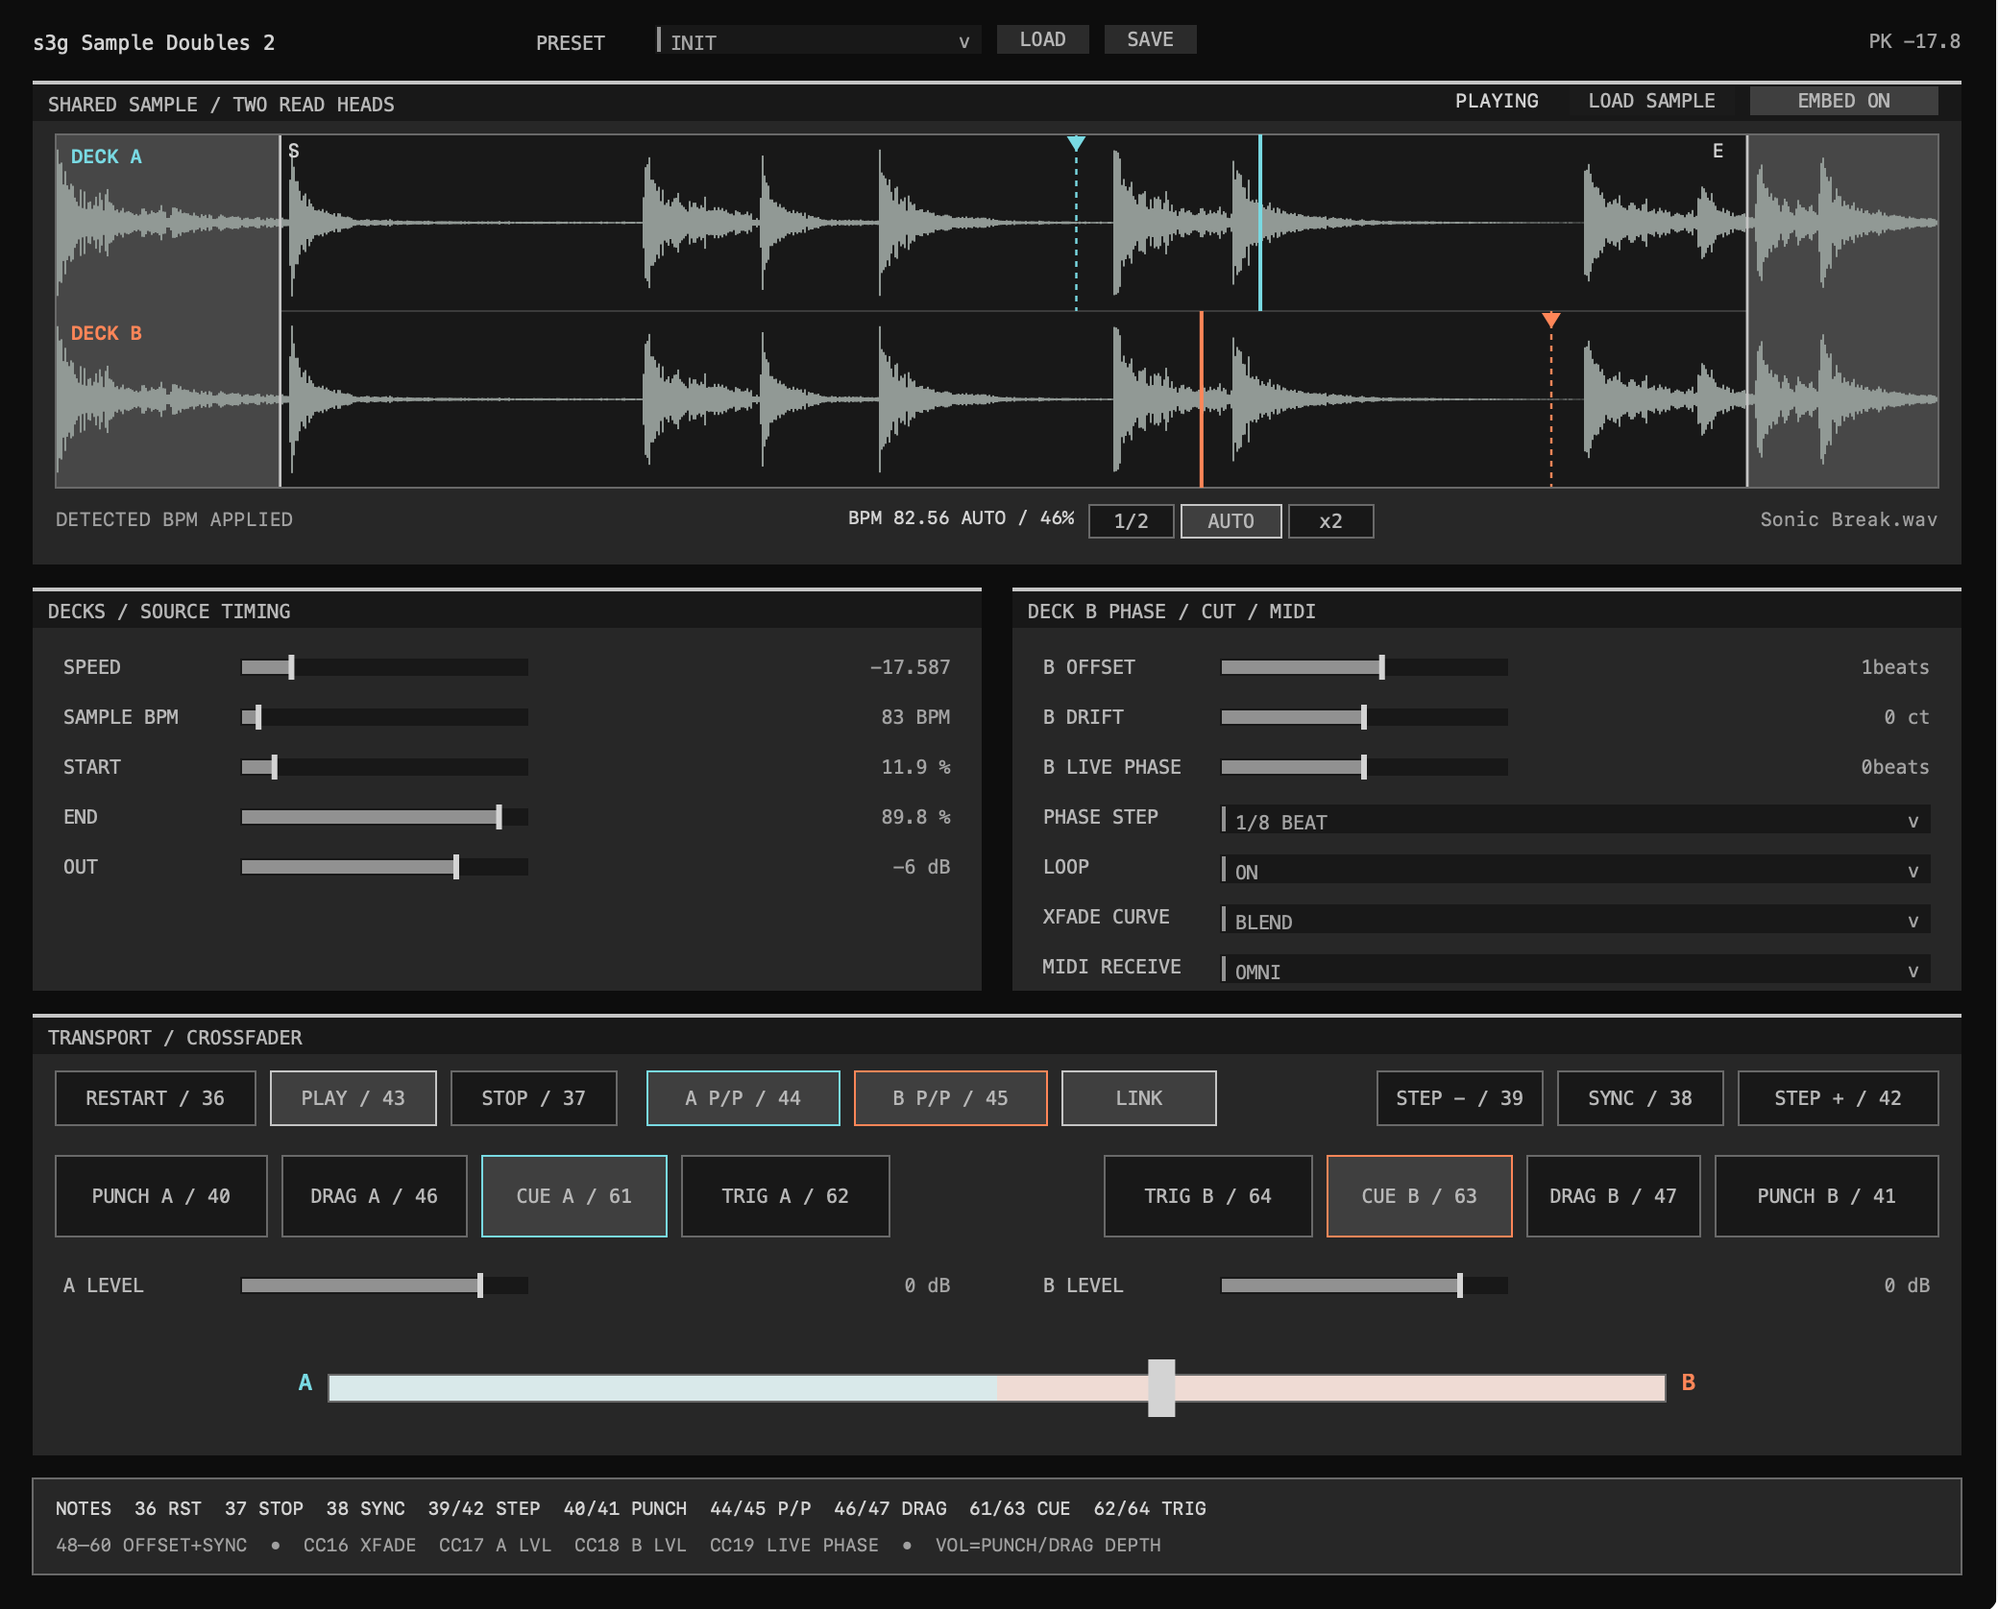
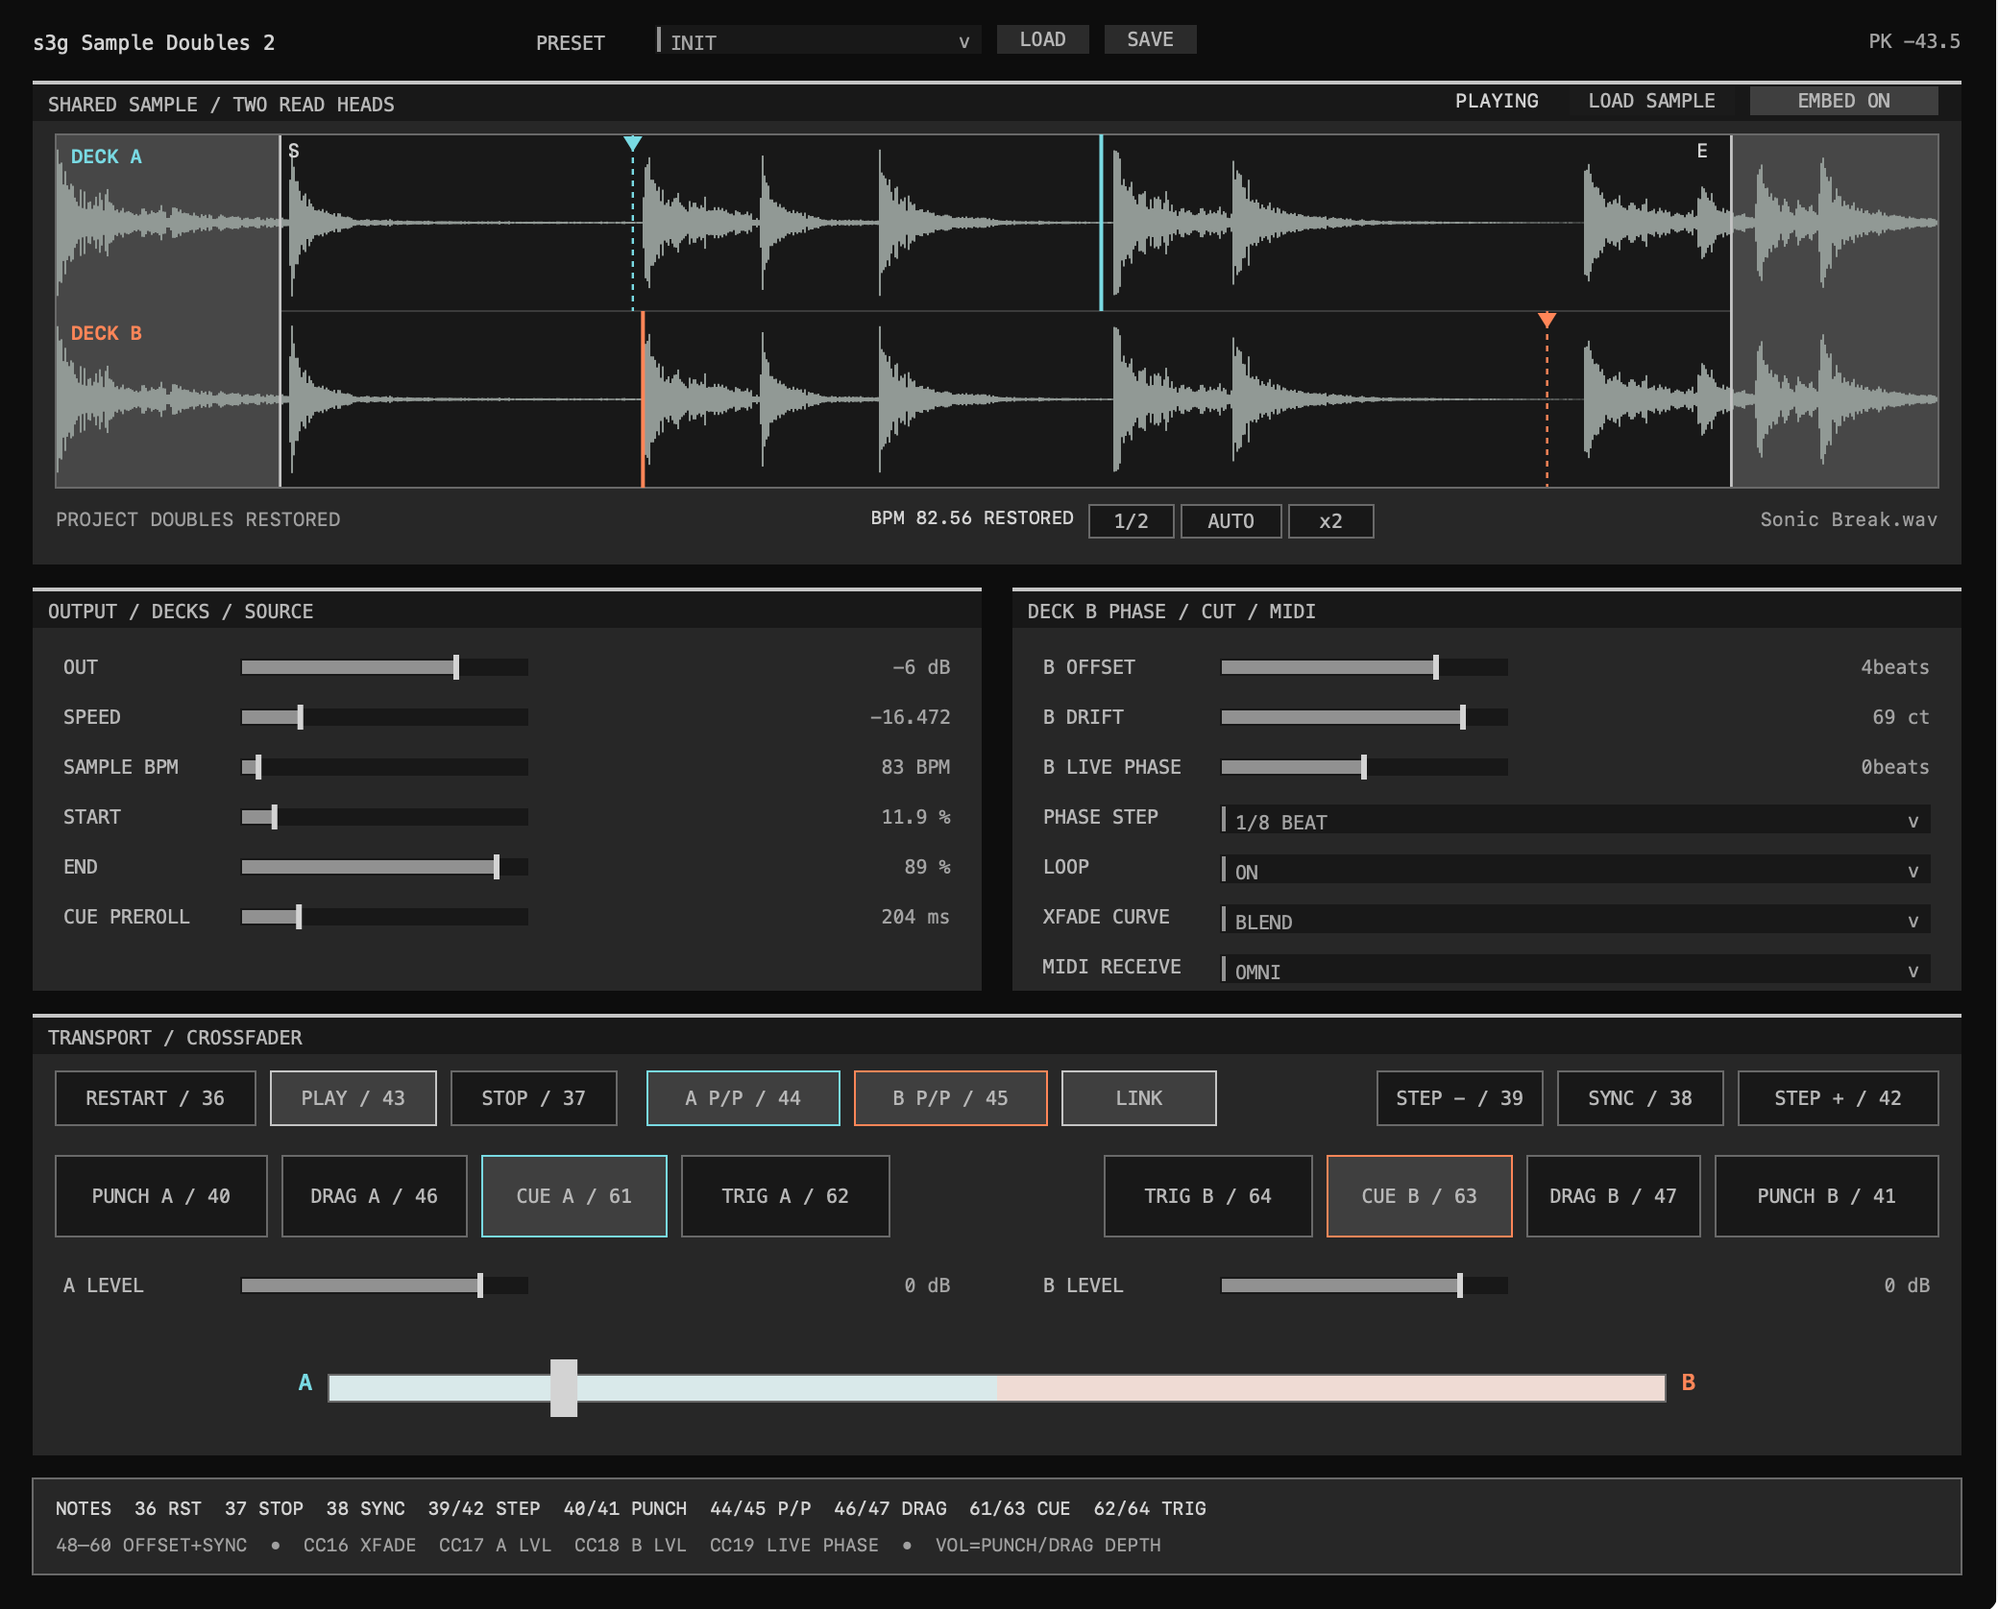
docs

diff --git a/docs/sample-instruments.html b/docs/sample-instruments.html
@@ -4,7 +4,7 @@
     <meta charset="utf-8">
     <meta name="viewport" content="width=device-width, initial-scale=1">
     <title>Sample Instruments - s3g-dsp</title>
-    <meta name="description" content="Sample Player, Sample Doubles, Sample Slicer, and related loaded-audio instrument documentation for s3g-dsp.">
+    <meta name="description" content="Sample Player, Sample Doubles, Sample Slicer, Effect CRCLTR, and related recorded-audio instrument documentation for s3g-dsp.">
     <link rel="stylesheet" href="styles.css">
   </head>
   <body>
@@ -27,14 +27,14 @@
       <main class="content" id="content">
         <h1>Sample Instruments</h1>
 
-        <p>The Sample family loads audio as an instrument source. <a href="sample-player.html">Sample Player</a> handles one-shots and loops, <a href="sample-doubles.html">Sample Doubles</a> puts two independently positioned copies of one stereo source behind a performance crossfader, and <a href="sample-slicer.html">Sample Slicer</a> turns as many as four breaks into mapped voices.</p>
+        <p>The Sample family uses loaded or captured audio as an instrument source. <a href="sample-player.html">Sample Player</a> handles one-shots and loops, <a href="sample-doubles.html">Sample Doubles</a> puts two independently positioned copies of one stereo source behind a performance crossfader, <a href="sample-slicer.html">Sample Slicer</a> turns as many as four breaks into mapped voices, and <a href="effect-crcltr.html">Effect CRCLTR</a> captures incoming stereo audio into two performance loop engines.</p>
 
         <h2 id="workflow">Workflow</h2>
 
         <ol>
-          <li>Choose an instrument and set its required output format and REAPER track channel count. Sample Player 16 and Sample Slicer 16 use fixed 16-channel outputs; their 2-channel forms use an ordinary stereo track.</li>
+          <li>Choose an instrument and set its required output format and REAPER track channel count. Sample Player 16 and Sample Slicer 16 use fixed 16-channel outputs; their 2-channel forms and Effect CRCLTR use an ordinary stereo track.</li>
           <li>For Processor Loop or Processor Multi Loop, route the eight output lanes to the main speakers, a downstream <a href="direct-panning.html">direct panner</a>, or <a href="monitoring-fold-down.html">Output Autogain Stereo/Quad</a> for fold-down monitoring. For Processor Ambi Grain, follow it with an <a href="ambisonic-decoders.html">ambisonic decoder</a>.</li>
-          <li>Load the source file or files and confirm that the expected channels appear.</li>
+          <li>Load the source file or files and confirm that the expected channels appear, or feed stereo audio into Effect CRCLTR and record its loop captures.</li>
           <li>Set the sample window, loop region, direction, pitch, and envelope, or derive and map slices in Sample Slicer.</li>
           <li>Audition the result through the established output path, then keep the source files with the project or in a stable media location.</li>
         </ol>
@@ -54,6 +54,7 @@
         <h2 id="loop-family">Loop Family</h2>
 
         <ul>
+          <li><a href="effect-crcltr.html">Effect CRCLTR</a>: two captured stereo loops with separate rates, manual or moving crossfade, and a live-source blend.</li>
           <li><a href="processor-loop.html">Processor Loop</a>: one loaded file distributed through an eight-channel loop instrument.</li>
           <li><a href="processor-multi-loop.html">Processor Multi Loop</a>: as many as four loaded files assigned across an eight-channel loop structure.</li>
         </ul>
@@ -85,6 +86,7 @@
           <a href="sample-player.html">Sample Player</a>
           <a href="sample-doubles.html">Sample Doubles</a>
           <a href="sample-slicer.html">Sample Slicer</a>
+          <a href="effect-crcltr.html">Effect CRCLTR</a>
           <a href="processor-loop.html">Processor Loop</a>
           <a href="processor-multi-loop.html">Processor Multi Loop</a>
           <a href="processor-ambi-grain.html">Processor Ambi Grain</a>

diff --git a/docs/effect-crcltr.html b/docs/effect-crcltr.html
@@ -101,26 +101,28 @@
         </ul>
 
         <nav class="page-nav" aria-label="Page navigation">
-          <a class="page-nav-link" href="distributed-output-processors.html">
+          <a class="page-nav-link" href="sample-slicer.html">
             <span>Previous</span>
-            Distributed-output Effects
+            Sample Slicer
           </a>
-          <a class="page-nav-link next" href="monitoring-fold-down.html">
+          <a class="page-nav-link next" href="processor-loop.html">
             <span>Next</span>
-            Monitoring / Fold-down
+            Processor Loop
           </a>
         </nav>
       </main>
 
       <aside class="toc" aria-label="Page navigation">
         <div class="toc-section">
-          <h2>Multichannel</h2>
-          <a href="multichannel.html">Overview</a>
-          <a href="multichannel-effects.html">Effects</a>
-          <a href="monitoring-fold-down.html">Monitoring / Fold-down</a>
-          <a href="direct-panning.html">Direct Panning</a>
-          <a href="bus-mixing-routing.html">Bus Mixing / Routing</a>
-          <a href="speaker-array-utilities.html">Speaker-array Utilities</a>
+          <h2>Sample</h2>
+          <a href="sample-instruments.html">Overview</a>
+          <a href="sample-player.html">Sample Player</a>
+          <a href="sample-doubles.html">Sample Doubles</a>
+          <a href="sample-slicer.html">Sample Slicer</a>
+          <a href="effect-crcltr.html">Effect CRCLTR</a>
+          <a href="processor-loop.html">Processor Loop</a>
+          <a href="processor-multi-loop.html">Processor Multi Loop</a>
+          <a href="processor-ambi-grain.html">Processor Ambi Grain</a>
         </div>
         <div class="toc-section">
           <h2>On This Page</h2>

diff --git a/docs/instruments.html b/docs/instruments.html
@@ -35,7 +35,7 @@
           <li><a href="s3g-tracker.html">s3g Tracker</a>: a host-synchronized polymetric MIDI tracker with sequencing effects, pattern and Song modes, timing warps, Live Code, step recording, and one channel-addressed REAPER MIDI output.</li>
           <li><a href="drums.html">Drums</a>: synthesized mono/stereo drum instruments, the companion Drum Overload effect, and an eight-lane stereo Drum Mixer 16.</li>
           <li><a href="generative-instruments.html">Generative Instruments</a>: internally synthesized and input-responsive feedback, modal, physical, byte, terrain, weather, liquid, pulsaret, stochastic, and logic systems, including Processor LF Synth, Processor Stack, and Processor Conduit.</li>
-          <li><a href="sample-instruments.html">Sample Instruments</a>: Sample Player for one-shots and loops, Sample Doubles for two-copy cutting and phasing, Sample Slicer for four-break slicing, and related instruments that use loaded files as persistent stereo, multichannel, or encoded source material.</li>
+          <li><a href="sample-instruments.html">Sample Instruments</a>: Sample Player for one-shots and loops, Sample Doubles for two-copy cutting and phasing, Sample Slicer for four-break slicing, Effect CRCLTR for captured dual-loop performance, and related instruments that use loaded or recorded audio as persistent stereo, multichannel, or encoded source material.</li>
           <li><a href="voice-instruments.html">Voice / Language Instruments</a>: voicebank synthesis, phrase mapping, and the companion voicebank-building workflow.</li>
         </ul>
 

diff --git a/docs/multichannel-effects.html b/docs/multichannel-effects.html
@@ -46,7 +46,6 @@
           <li><a href="macro-processors.html">Macro Effects</a>: compact delay, pitch, and shred interfaces with shared controls and lane relationship parameters.</li>
           <li><a href="spectral-buffer-processors.html">Spectral / Buffer Effects</a>: FFT-bin transformations and deliberately unstable buffer-window treatments.</li>
           <li><a href="distributed-output-processors.html">Distributed Output Effects</a>: stereo-input effects that distribute grains, delays, or taps across 16 ordinary output lanes.</li>
-          <li><a href="effect-crcltr.html">Effect CRCLTR</a>: a stereo dual looper with two capture lengths, manual or automated crossfades, and an equal-power source-to-loops blend.</li>
         </ul>
 
         <p>Start with topology effects when the relationship among input lanes should drive the result. Use a Macro effect for a smaller performance surface, Spectral / Buffer for transformations inside frequency or memory representations, and Distributed Output when a stereo source should emerge as a wide discrete-channel scene.</p>

diff --git a/docs/processor-loop.html b/docs/processor-loop.html
@@ -109,9 +109,9 @@
         </ul>
 
         <nav class="page-nav" aria-label="Page navigation">
-          <a class="page-nav-link" href="sample-slicer.html">
+          <a class="page-nav-link" href="effect-crcltr.html">
             <span>Previous</span>
-            Sample Slicer
+            Effect CRCLTR
           </a>
           <a class="page-nav-link next" href="processor-multi-loop.html">
             <span>Next</span>
@@ -127,6 +127,7 @@
           <a href="sample-player.html">Sample Player</a>
           <a href="sample-doubles.html">Sample Doubles</a>
           <a href="sample-slicer.html">Sample Slicer</a>
+          <a href="effect-crcltr.html">Effect CRCLTR</a>
           <a href="processor-loop.html">Processor Loop</a>
           <a href="processor-multi-loop.html">Processor Multi Loop</a>
           <a href="processor-ambi-grain.html">Processor Ambi Grain</a>

diff --git a/docs/sample-slicer.html b/docs/sample-slicer.html
@@ -150,7 +150,7 @@
 
         <nav class="page-nav" aria-label="Page navigation">
           <a class="page-nav-link" href="sample-doubles.html"><span>Previous</span>Sample Doubles</a>
-          <a class="page-nav-link next" href="processor-loop.html"><span>Next</span>Processor Loop</a>
+          <a class="page-nav-link next" href="effect-crcltr.html"><span>Next</span>Effect CRCLTR</a>
         </nav>
       </main>
 
@@ -161,6 +161,7 @@
           <a href="sample-player.html">Sample Player</a>
           <a href="sample-doubles.html">Sample Doubles</a>
           <a href="sample-slicer.html">Sample Slicer</a>
+          <a href="effect-crcltr.html">Effect CRCLTR</a>
           <a href="processor-loop.html">Processor Loop</a>
           <a href="processor-multi-loop.html">Processor Multi Loop</a>
           <a href="processor-ambi-grain.html">Processor Ambi Grain</a>

diff --git a/docs/monitoring-fold-down.html b/docs/monitoring-fold-down.html
@@ -56,9 +56,9 @@
         <p>The stereo and quad tools expose narrower output buses. In REAPER, inspect the plugin pin connector and enable <code>Zero out unmapped output channels</code> when unused track channels would otherwise pass around a fold-down plugin.</p>
 
         <nav class="page-nav" aria-label="Page navigation">
-          <a class="page-nav-link" href="effect-crcltr.html">
+          <a class="page-nav-link" href="distributed-output-processors.html">
             <span>Previous</span>
-            Effect CRCLTR
+            Distributed-output Effects
           </a>
           <a class="page-nav-link next" href="output-autogain-stereo.html">
             <span>Next</span>

diff --git a/docs/processor-multi-loop.html b/docs/processor-multi-loop.html
@@ -175,6 +175,7 @@
           <a href="sample-player.html">Sample Player</a>
           <a href="sample-doubles.html">Sample Doubles</a>
           <a href="sample-slicer.html">Sample Slicer</a>
+          <a href="effect-crcltr.html">Effect CRCLTR</a>
           <a href="processor-loop.html">Processor Loop</a>
           <a href="processor-multi-loop.html">Processor Multi Loop</a>
           <a href="processor-ambi-grain.html">Processor Ambi Grain</a>

diff --git a/docs/sample-doubles.html b/docs/sample-doubles.html
@@ -146,6 +146,7 @@
           <a href="sample-player.html">Sample Player</a>
           <a href="sample-doubles.html">Sample Doubles</a>
           <a href="sample-slicer.html">Sample Slicer</a>
+          <a href="effect-crcltr.html">Effect CRCLTR</a>
           <a href="processor-loop.html">Processor Loop</a>
           <a href="processor-multi-loop.html">Processor Multi Loop</a>
           <a href="processor-ambi-grain.html">Processor Ambi Grain</a>

diff --git a/docs/sample-player.html b/docs/sample-player.html
@@ -127,6 +127,7 @@
           <a href="sample-player.html">Sample Player</a>
           <a href="sample-doubles.html">Sample Doubles</a>
           <a href="sample-slicer.html">Sample Slicer</a>
+          <a href="effect-crcltr.html">Effect CRCLTR</a>
           <a href="processor-loop.html">Processor Loop</a>
           <a href="processor-multi-loop.html">Processor Multi Loop</a>
           <a href="processor-ambi-grain.html">Processor Ambi Grain</a>

diff --git a/docs/distributed-output-processors.html b/docs/distributed-output-processors.html
@@ -85,9 +85,9 @@
             <span>Previous</span>
             Spectral / Buffer Effects
           </a>
-          <a class="page-nav-link next" href="effect-crcltr.html">
+          <a class="page-nav-link next" href="monitoring-fold-down.html">
             <span>Next</span>
-            Effect CRCLTR
+            Monitoring / Fold-down
           </a>
         </nav>
       </main>

diff --git a/tests/encoder_family_gui_smoke.mm b/tests/encoder_family_gui_smoke.mm
@@ -3212,7 +3212,7 @@ int main(int argc, char** argv)
                             && analyzedBpm > 115.0 && analyzedBpm < 125.0;
                     }
                     if (ok) {
-                        const NSPoint manualBpm = NSMakePoint(276.0, 369.0);
+                        const NSPoint manualBpm = NSMakePoint(276.0, 395.0);
                         [document mouseDown:mouseEvent(
                             NSEventTypeLeftMouseDown, manualBpm)];
                         [document mouseUp:mouseEvent(
@@ -3522,11 +3522,11 @@ int main(int argc, char** argv)
                     CGFloat y;
                 };
                 const std::array<SliderDrag, 11u> sliderDrags {{
-                    { 126.0, 276.0, 343.0 }, // Speed
-                    { 126.0, 276.0, 369.0 }, // Sample BPM
-                    { 126.0, 180.0, 395.0 }, // Start (remain below End)
-                    { 220.0, 276.0, 421.0 }, // End (remain above Start)
-                    { 126.0, 276.0, 447.0 }, // Out
+                    { 126.0, 276.0, 343.0 }, // Out
+                    { 126.0, 276.0, 369.0 }, // Speed
+                    { 126.0, 276.0, 395.0 }, // Sample BPM
+                    { 126.0, 180.0, 421.0 }, // Start (remain below End)
+                    { 220.0, 276.0, 447.0 }, // End (remain above Start)
                     { 126.0, 276.0, 473.0 }, // Cue Preroll
                     { 636.0, 786.0, 343.0 }, // B Offset
                     { 636.0, 786.0, 369.0 }, // B Drift
